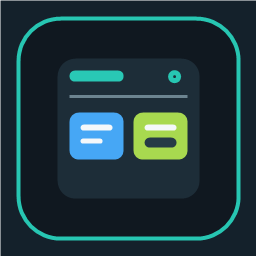
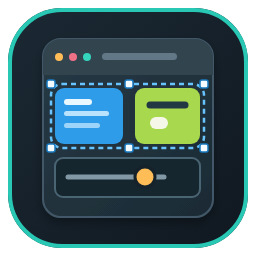
Replace app branding with SVG artwork

diff --git a/ha_grafik_visual_studio/app/main.py b/ha_grafik_visual_studio/app/main.py
@@ -57,7 +57,7 @@ PROJECT_ID_PATTERN = re.compile(r"^[a-z0-9][a-z0-9-]{0,63}$")
 
 
 class Handler(BaseHTTPRequestHandler):
-    server_version = "HAGrafikVisualStudio/0.1.29"
+    server_version = "HAGrafikVisualStudio/0.1.30"
 
     def log_message(self, fmt, *args):
         LOG.info("%s - %s", self.address_string(), fmt % args)
@@ -79,7 +79,7 @@ class Handler(BaseHTTPRequestHandler):
         path = parsed.path.rstrip("/") or "/"
         query = parse_qs(parsed.query)
         if path == "/health":
-            self.send_json(HTTPStatus.OK, {"status": "ok", "app": "ha_grafik_visual_studio", "version": "0.1.29"})
+            self.send_json(HTTPStatus.OK, {"status": "ok", "app": "ha_grafik_visual_studio", "version": "0.1.30"})
             return
         if path == "/api/projects":
             self.send_json(HTTPStatus.OK, self.list_projects())

diff --git a/ha_grafik_visual_studio/README.md b/ha_grafik_visual_studio/README.md
@@ -4,7 +4,7 @@
 
 Eigenständiges Home-Assistant-App-Projekt für eine grafische Visualisierung mit getrenntem Editor und Runtime. Das Paket ist ein frühes Grundgerüst, keine fertige VIS2-Alternative.
 
-Das Add-on enthält ein eigenes Icon und Logo für die Darstellung im Home-Assistant-App-Store.
+Das Add-on enthält `icon.svg` und `logo.svg` als editierbare Markengrafiken sowie daraus gerenderte PNG-Dateien für den Home-Assistant-App-Store.
 
 ## Aktueller Stand
 

diff --git a/ha_grafik_visual_studio/CHANGELOG.md b/ha_grafik_visual_studio/CHANGELOG.md
@@ -1,5 +1,10 @@
 # Changelog
 
+## 0.1.30
+
+- Ersetzt das App-Icon und Logo durch neu gestaltete SVG-Dateien.
+- Rendert passende `icon.png` und `logo.png` aus den SVG-Quellen für den Home-Assistant-App-Store.
+
 ## 0.1.29
 
 - Fügt ein eigenes App-Icon und ein passendes Logo für HA Grafik Visual Studio hinzu.
